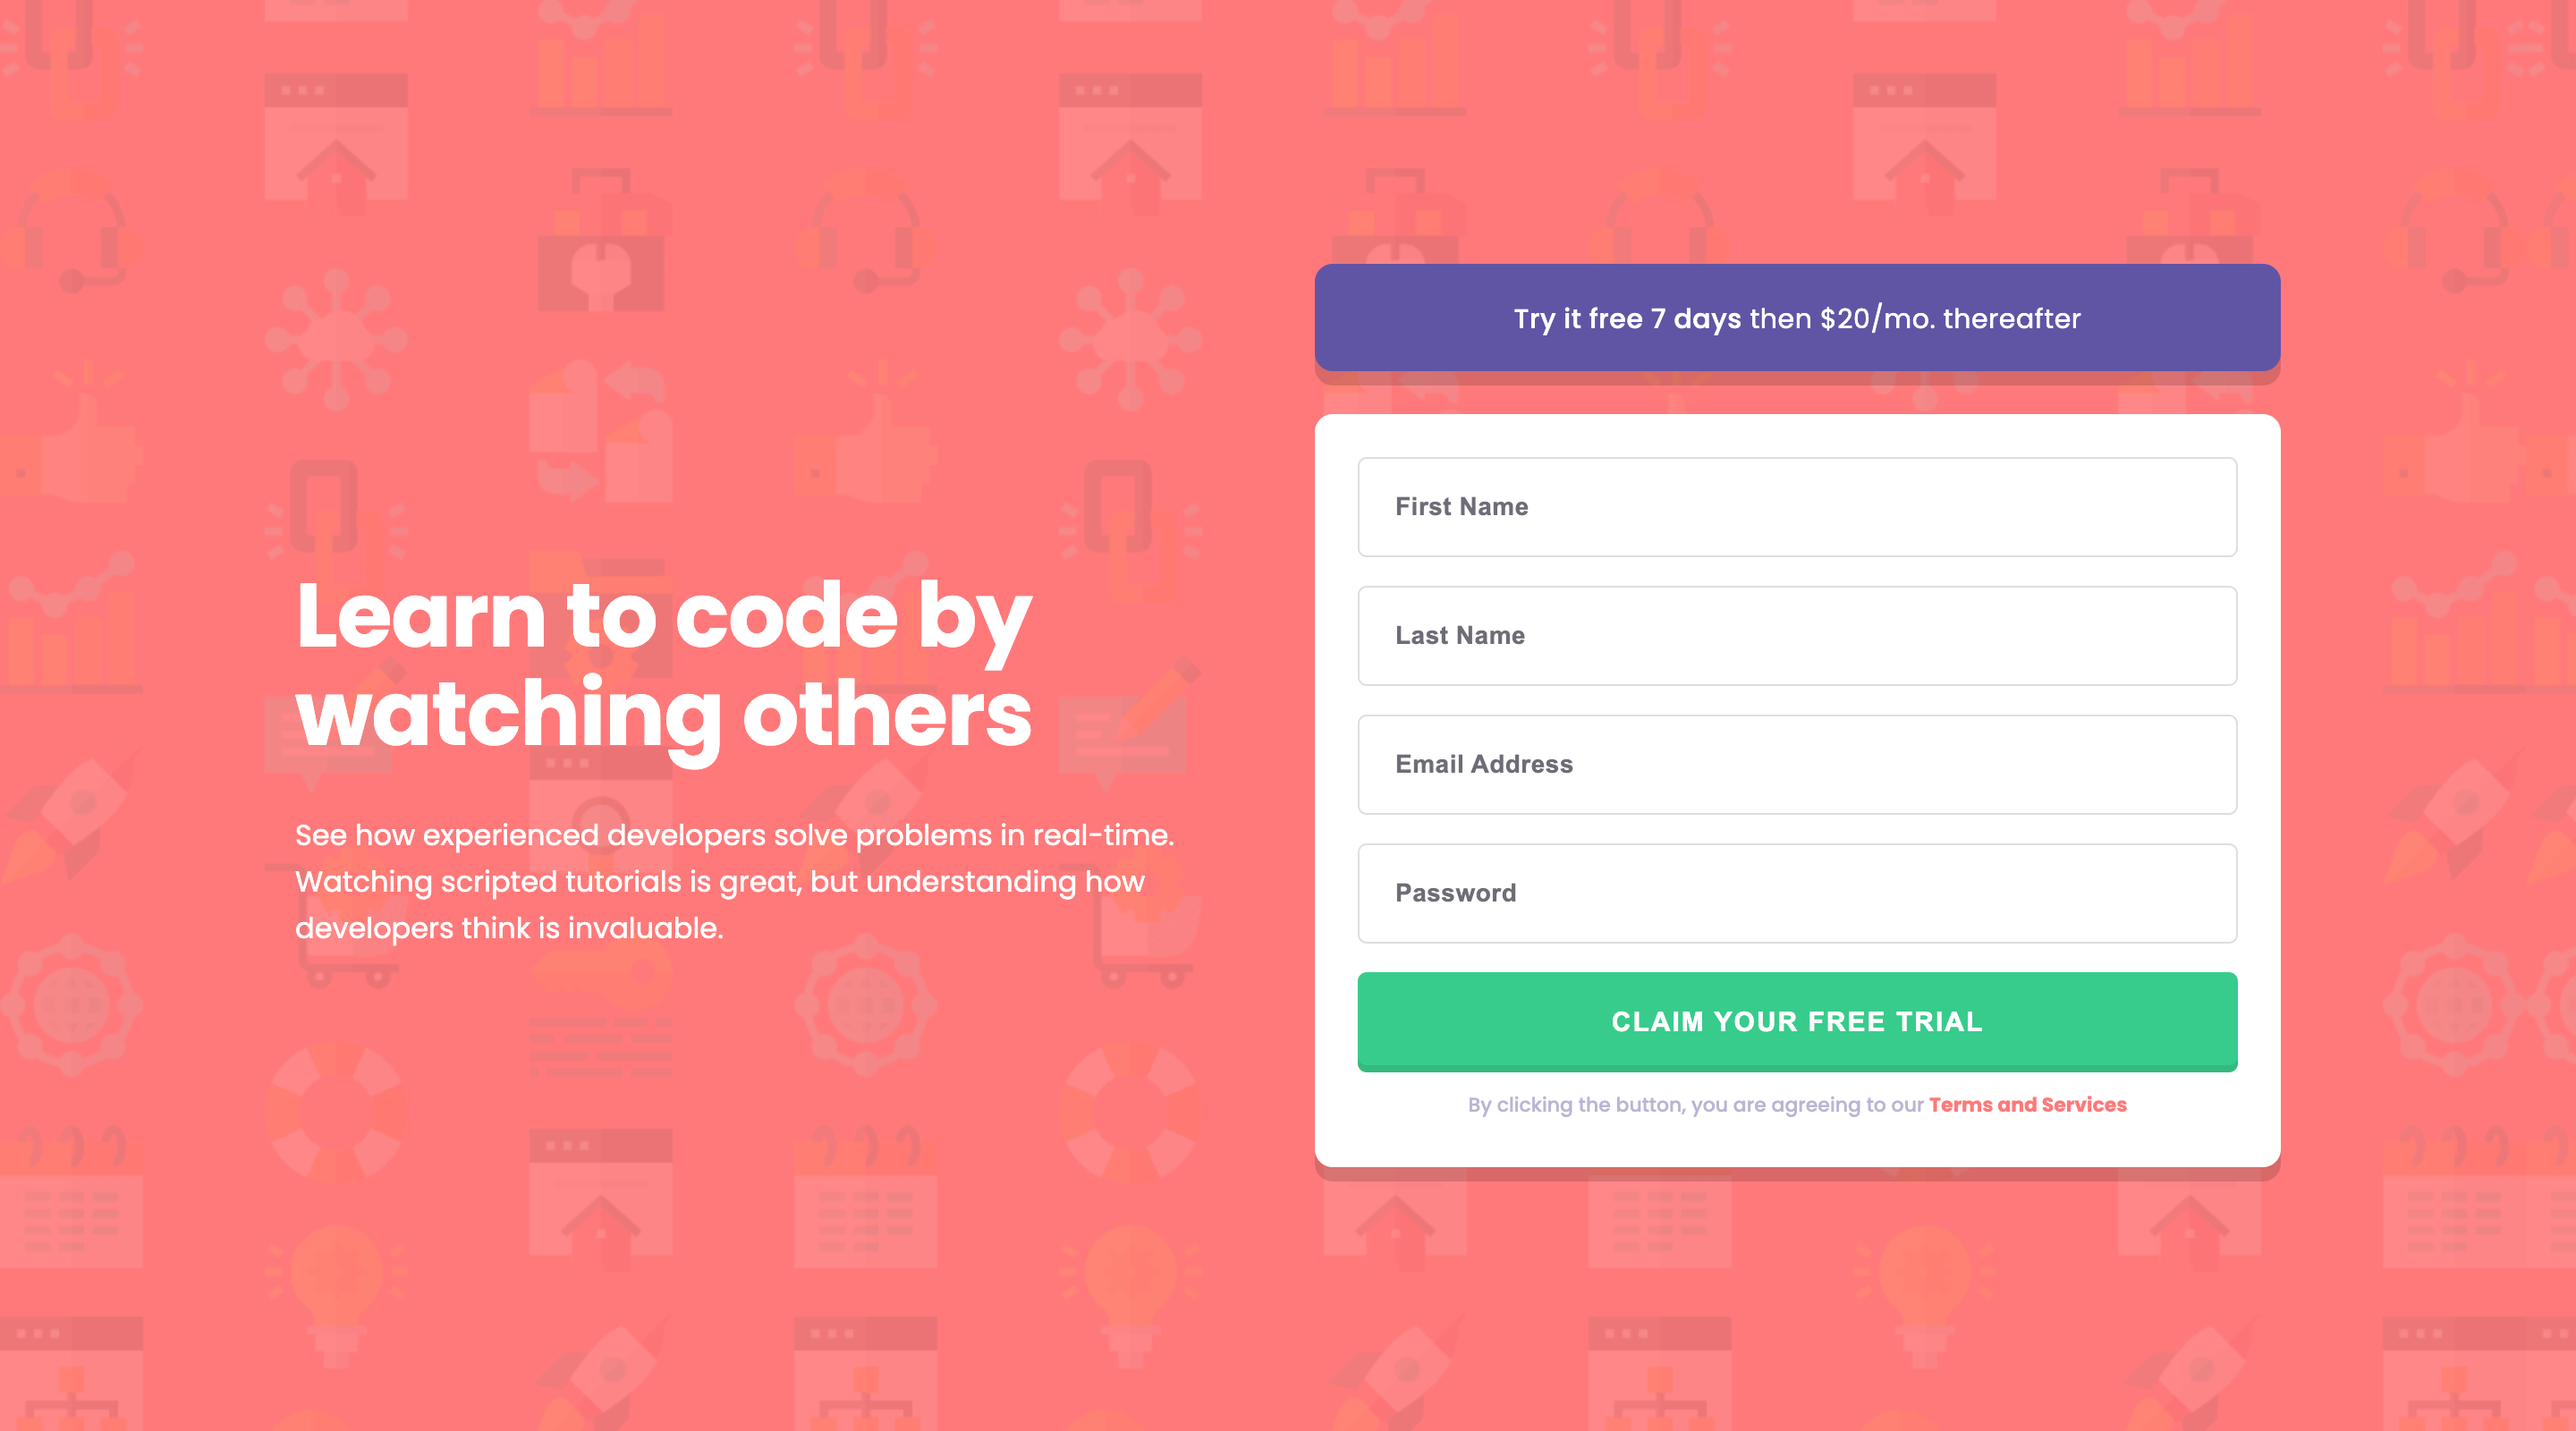
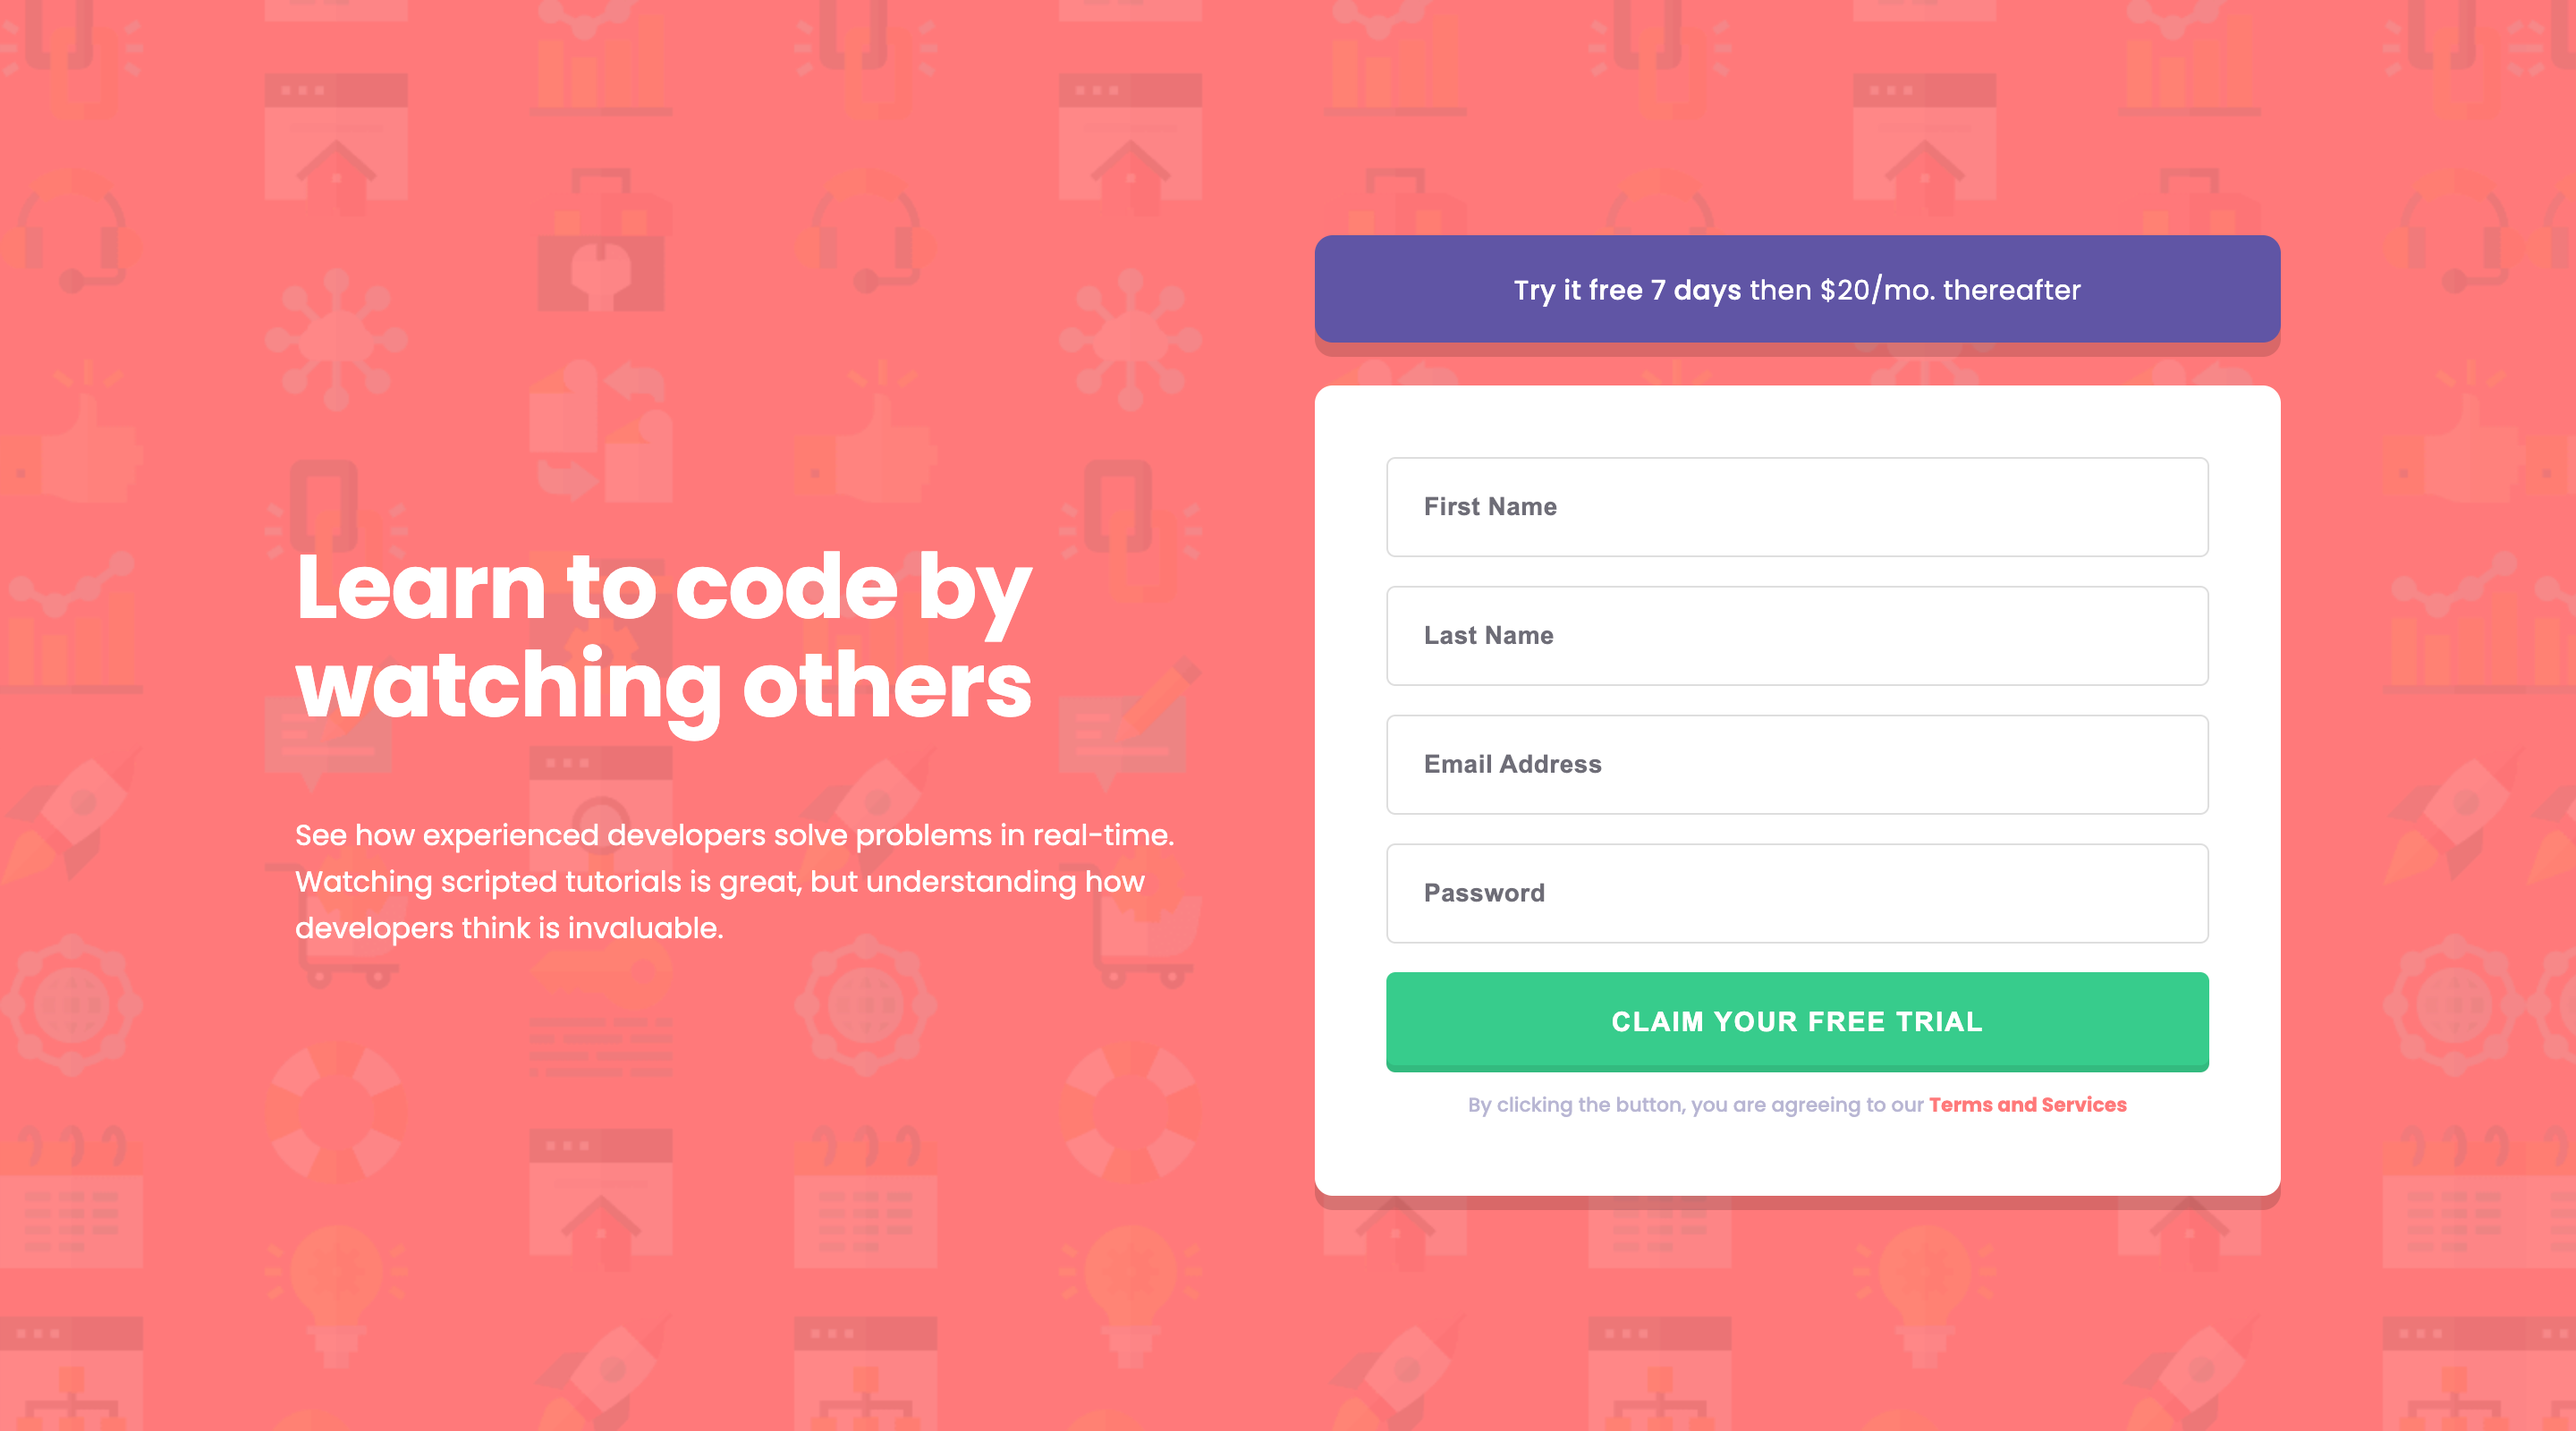
Fix desktop form padding

diff --git a/styles/style.css b/styles/style.css
@@ -224,6 +224,10 @@
     letter-spacing: -0.52px;
     text-align: center;
   }
+
+  .form {
+    padding: 40px;
+  }
 }
 
 @media (min-width: 1440px) {
